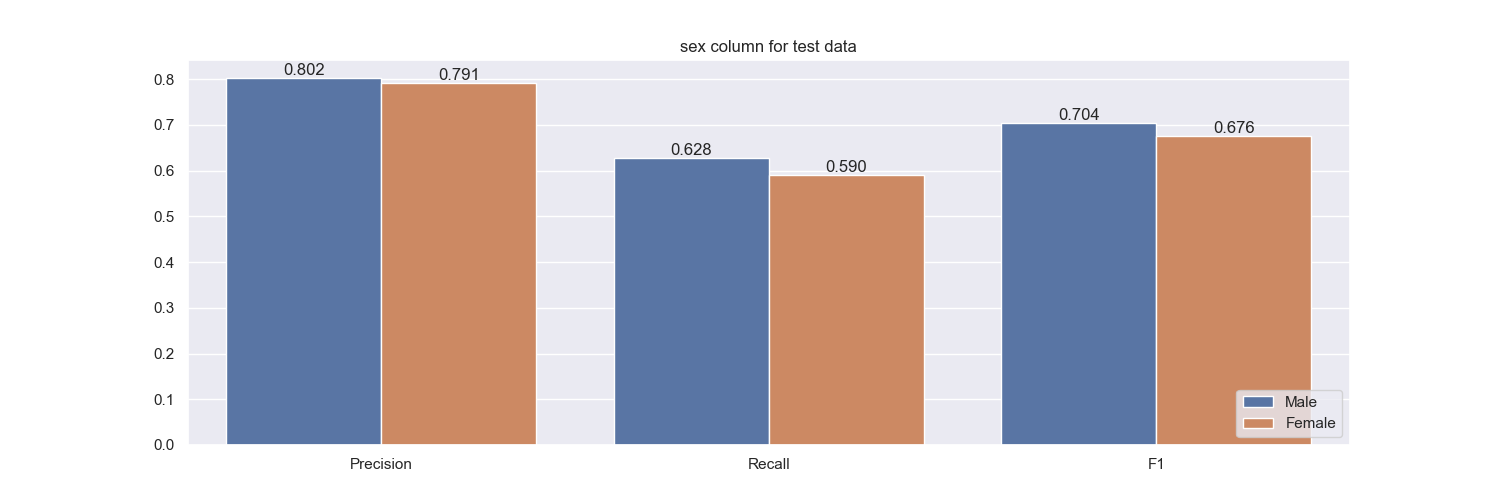
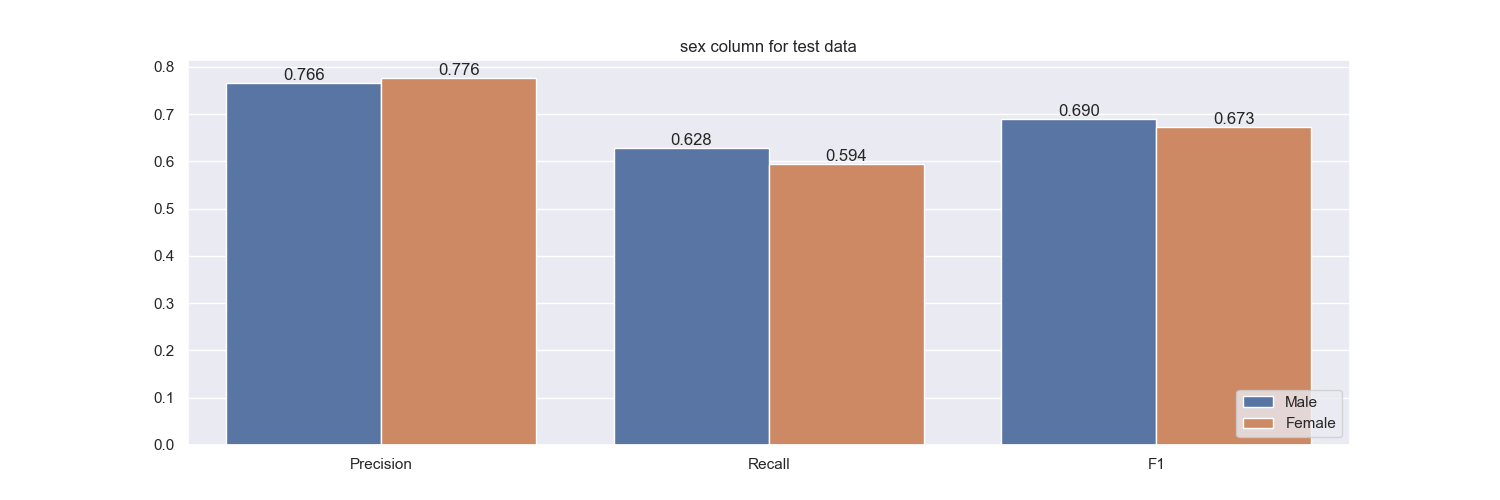
update

diff --git a/models/pipe_RandomForestClassifier.html b/models/pipe_RandomForestClassifier.html
@@ -1,4 +1,4 @@
-<style>#sk-1fee6def-3d5b-4289-ac9e-83a3c6e13935 {color: black;background-color: white;}#sk-1fee6def-3d5b-4289-ac9e-83a3c6e13935 pre{padding: 0;}#sk-1fee6def-3d5b-4289-ac9e-83a3c6e13935 div.sk-toggleable {background-color: white;}#sk-1fee6def-3d5b-4289-ac9e-83a3c6e13935 label.sk-toggleable__label {cursor: pointer;display: block;width: 100%;margin-bottom: 0;padding: 0.3em;box-sizing: border-box;text-align: center;}#sk-1fee6def-3d5b-4289-ac9e-83a3c6e13935 div.sk-toggleable__content {max-height: 0;max-width: 0;overflow: hidden;text-align: left;background-color: #f0f8ff;}#sk-1fee6def-3d5b-4289-ac9e-83a3c6e13935 div.sk-toggleable__content pre {margin: 0.2em;color: black;border-radius: 0.25em;background-color: #f0f8ff;}#sk-1fee6def-3d5b-4289-ac9e-83a3c6e13935 input.sk-toggleable__control:checked~div.sk-toggleable__content {max-height: 200px;max-width: 100%;overflow: auto;}#sk-1fee6def-3d5b-4289-ac9e-83a3c6e13935 div.sk-estimator input.sk-toggleable__control:checked~label.sk-toggleable__label {background-color: #d4ebff;}#sk-1fee6def-3d5b-4289-ac9e-83a3c6e13935 div.sk-label input.sk-toggleable__control:checked~label.sk-toggleable__label {background-color: #d4ebff;}#sk-1fee6def-3d5b-4289-ac9e-83a3c6e13935 input.sk-hidden--visually {border: 0;clip: rect(1px 1px 1px 1px);clip: rect(1px, 1px, 1px, 1px);height: 1px;margin: -1px;overflow: hidden;padding: 0;position: absolute;width: 1px;}#sk-1fee6def-3d5b-4289-ac9e-83a3c6e13935 div.sk-estimator {font-family: monospace;background-color: #f0f8ff;border: 1px dotted black;border-radius: 0.25em;box-sizing: border-box;margin-bottom: 0.5em;}#sk-1fee6def-3d5b-4289-ac9e-83a3c6e13935 div.sk-estimator:hover {background-color: #d4ebff;}#sk-1fee6def-3d5b-4289-ac9e-83a3c6e13935 div.sk-parallel-item::after {content: "";width: 100%;border-bottom: 1px solid gray;flex-grow: 1;}#sk-1fee6def-3d5b-4289-ac9e-83a3c6e13935 div.sk-label:hover label.sk-toggleable__label {background-color: #d4ebff;}#sk-1fee6def-3d5b-4289-ac9e-83a3c6e13935 div.sk-serial::before {content: "";position: absolute;border-left: 1px solid gray;box-sizing: border-box;top: 2em;bottom: 0;left: 50%;}#sk-1fee6def-3d5b-4289-ac9e-83a3c6e13935 div.sk-serial {display: flex;flex-direction: column;align-items: center;background-color: white;padding-right: 0.2em;padding-left: 0.2em;}#sk-1fee6def-3d5b-4289-ac9e-83a3c6e13935 div.sk-item {z-index: 1;}#sk-1fee6def-3d5b-4289-ac9e-83a3c6e13935 div.sk-parallel {display: flex;align-items: stretch;justify-content: center;background-color: white;}#sk-1fee6def-3d5b-4289-ac9e-83a3c6e13935 div.sk-parallel::before {content: "";position: absolute;border-left: 1px solid gray;box-sizing: border-box;top: 2em;bottom: 0;left: 50%;}#sk-1fee6def-3d5b-4289-ac9e-83a3c6e13935 div.sk-parallel-item {display: flex;flex-direction: column;position: relative;background-color: white;}#sk-1fee6def-3d5b-4289-ac9e-83a3c6e13935 div.sk-parallel-item:first-child::after {align-self: flex-end;width: 50%;}#sk-1fee6def-3d5b-4289-ac9e-83a3c6e13935 div.sk-parallel-item:last-child::after {align-self: flex-start;width: 50%;}#sk-1fee6def-3d5b-4289-ac9e-83a3c6e13935 div.sk-parallel-item:only-child::after {width: 0;}#sk-1fee6def-3d5b-4289-ac9e-83a3c6e13935 div.sk-dashed-wrapped {border: 1px dashed gray;margin: 0 0.4em 0.5em 0.4em;box-sizing: border-box;padding-bottom: 0.4em;background-color: white;position: relative;}#sk-1fee6def-3d5b-4289-ac9e-83a3c6e13935 div.sk-label label {font-family: monospace;font-weight: bold;background-color: white;display: inline-block;line-height: 1.2em;}#sk-1fee6def-3d5b-4289-ac9e-83a3c6e13935 div.sk-label-container {position: relative;z-index: 2;text-align: center;}#sk-1fee6def-3d5b-4289-ac9e-83a3c6e13935 div.sk-container {display: inline-block;position: relative;}</style><div id="sk-1fee6def-3d5b-4289-ac9e-83a3c6e13935" class"sk-top-container"><div class="sk-container"><div class="sk-item sk-dashed-wrapped"><div class="sk-label-container"><div class="sk-label sk-toggleable"><input class="sk-toggleable__control sk-hidden--visually" id="b9aa14d0-c104-4e8a-ac03-9729935c76d5" type="checkbox" ><label class="sk-toggleable__label" for="b9aa14d0-c104-4e8a-ac03-9729935c76d5">Pipeline</label><div class="sk-toggleable__content"><pre>Pipeline(steps=[('features_preprocessor',
+<style>#sk-76612ce1-7096-4c74-af0b-5bf7a553d9b0 {color: black;background-color: white;}#sk-76612ce1-7096-4c74-af0b-5bf7a553d9b0 pre{padding: 0;}#sk-76612ce1-7096-4c74-af0b-5bf7a553d9b0 div.sk-toggleable {background-color: white;}#sk-76612ce1-7096-4c74-af0b-5bf7a553d9b0 label.sk-toggleable__label {cursor: pointer;display: block;width: 100%;margin-bottom: 0;padding: 0.3em;box-sizing: border-box;text-align: center;}#sk-76612ce1-7096-4c74-af0b-5bf7a553d9b0 div.sk-toggleable__content {max-height: 0;max-width: 0;overflow: hidden;text-align: left;background-color: #f0f8ff;}#sk-76612ce1-7096-4c74-af0b-5bf7a553d9b0 div.sk-toggleable__content pre {margin: 0.2em;color: black;border-radius: 0.25em;background-color: #f0f8ff;}#sk-76612ce1-7096-4c74-af0b-5bf7a553d9b0 input.sk-toggleable__control:checked~div.sk-toggleable__content {max-height: 200px;max-width: 100%;overflow: auto;}#sk-76612ce1-7096-4c74-af0b-5bf7a553d9b0 div.sk-estimator input.sk-toggleable__control:checked~label.sk-toggleable__label {background-color: #d4ebff;}#sk-76612ce1-7096-4c74-af0b-5bf7a553d9b0 div.sk-label input.sk-toggleable__control:checked~label.sk-toggleable__label {background-color: #d4ebff;}#sk-76612ce1-7096-4c74-af0b-5bf7a553d9b0 input.sk-hidden--visually {border: 0;clip: rect(1px 1px 1px 1px);clip: rect(1px, 1px, 1px, 1px);height: 1px;margin: -1px;overflow: hidden;padding: 0;position: absolute;width: 1px;}#sk-76612ce1-7096-4c74-af0b-5bf7a553d9b0 div.sk-estimator {font-family: monospace;background-color: #f0f8ff;border: 1px dotted black;border-radius: 0.25em;box-sizing: border-box;margin-bottom: 0.5em;}#sk-76612ce1-7096-4c74-af0b-5bf7a553d9b0 div.sk-estimator:hover {background-color: #d4ebff;}#sk-76612ce1-7096-4c74-af0b-5bf7a553d9b0 div.sk-parallel-item::after {content: "";width: 100%;border-bottom: 1px solid gray;flex-grow: 1;}#sk-76612ce1-7096-4c74-af0b-5bf7a553d9b0 div.sk-label:hover label.sk-toggleable__label {background-color: #d4ebff;}#sk-76612ce1-7096-4c74-af0b-5bf7a553d9b0 div.sk-serial::before {content: "";position: absolute;border-left: 1px solid gray;box-sizing: border-box;top: 2em;bottom: 0;left: 50%;}#sk-76612ce1-7096-4c74-af0b-5bf7a553d9b0 div.sk-serial {display: flex;flex-direction: column;align-items: center;background-color: white;padding-right: 0.2em;padding-left: 0.2em;}#sk-76612ce1-7096-4c74-af0b-5bf7a553d9b0 div.sk-item {z-index: 1;}#sk-76612ce1-7096-4c74-af0b-5bf7a553d9b0 div.sk-parallel {display: flex;align-items: stretch;justify-content: center;background-color: white;}#sk-76612ce1-7096-4c74-af0b-5bf7a553d9b0 div.sk-parallel::before {content: "";position: absolute;border-left: 1px solid gray;box-sizing: border-box;top: 2em;bottom: 0;left: 50%;}#sk-76612ce1-7096-4c74-af0b-5bf7a553d9b0 div.sk-parallel-item {display: flex;flex-direction: column;position: relative;background-color: white;}#sk-76612ce1-7096-4c74-af0b-5bf7a553d9b0 div.sk-parallel-item:first-child::after {align-self: flex-end;width: 50%;}#sk-76612ce1-7096-4c74-af0b-5bf7a553d9b0 div.sk-parallel-item:last-child::after {align-self: flex-start;width: 50%;}#sk-76612ce1-7096-4c74-af0b-5bf7a553d9b0 div.sk-parallel-item:only-child::after {width: 0;}#sk-76612ce1-7096-4c74-af0b-5bf7a553d9b0 div.sk-dashed-wrapped {border: 1px dashed gray;margin: 0 0.4em 0.5em 0.4em;box-sizing: border-box;padding-bottom: 0.4em;background-color: white;position: relative;}#sk-76612ce1-7096-4c74-af0b-5bf7a553d9b0 div.sk-label label {font-family: monospace;font-weight: bold;background-color: white;display: inline-block;line-height: 1.2em;}#sk-76612ce1-7096-4c74-af0b-5bf7a553d9b0 div.sk-label-container {position: relative;z-index: 2;text-align: center;}#sk-76612ce1-7096-4c74-af0b-5bf7a553d9b0 div.sk-container {display: inline-block;position: relative;}</style><div id="sk-76612ce1-7096-4c74-af0b-5bf7a553d9b0" class"sk-top-container"><div class="sk-container"><div class="sk-item sk-dashed-wrapped"><div class="sk-label-container"><div class="sk-label sk-toggleable"><input class="sk-toggleable__control sk-hidden--visually" id="ca062c31-28ac-43e6-9db4-61a8ccfc0461" type="checkbox" ><label class="sk-toggleable__label" for="ca062c31-28ac-43e6-9db4-61a8ccfc0461">Pipeline</label><div class="sk-toggleable__content"><pre>Pipeline(steps=[('features_preprocessor',
                  ColumnTransformer(remainder='passthrough',
                                    transformers=[('drop', 'drop',
                                                   ['education']),
@@ -17,8 +17,8 @@
                                                    'capital_loss',
                                                    'hours_per_week'])])),
                 ('model',
-                 RandomForestClassifier(max_depth=20, n_estimators=20,
-                                        random_state=41))])</pre></div></div></div><div class="sk-serial"><div class="sk-item sk-dashed-wrapped"><div class="sk-label-container"><div class="sk-label sk-toggleable"><input class="sk-toggleable__control sk-hidden--visually" id="12787dd3-5f72-4d8d-b64f-42e6cc9c695a" type="checkbox" ><label class="sk-toggleable__label" for="12787dd3-5f72-4d8d-b64f-42e6cc9c695a">features_preprocessor: ColumnTransformer</label><div class="sk-toggleable__content"><pre>ColumnTransformer(remainder='passthrough',
+                 RandomForestClassifier(max_depth=32, n_estimators=40,
+                                        random_state=41))])</pre></div></div></div><div class="sk-serial"><div class="sk-item sk-dashed-wrapped"><div class="sk-label-container"><div class="sk-label sk-toggleable"><input class="sk-toggleable__control sk-hidden--visually" id="3304acf8-57a5-449a-a667-3433ef29677e" type="checkbox" ><label class="sk-toggleable__label" for="3304acf8-57a5-449a-a667-3433ef29677e">features_preprocessor: ColumnTransformer</label><div class="sk-toggleable__content"><pre>ColumnTransformer(remainder='passthrough',
                   transformers=[('drop', 'drop', ['education']),
                                 ('categorical',
                                  Pipeline(steps=[('simpleimputer',
@@ -30,4 +30,4 @@
                                   'native_country']),
                                 ('numeric', StandardScaler(),
                                  ['age', 'fnlgt', 'capital_gain',
-                                  'capital_loss', 'hours_per_week'])])</pre></div></div></div><div class="sk-parallel"><div class="sk-parallel-item"><div class="sk-item"><div class="sk-label-container"><div class="sk-label sk-toggleable"><input class="sk-toggleable__control sk-hidden--visually" id="3bea58fb-984b-4c59-8169-2b261b75cd22" type="checkbox" ><label class="sk-toggleable__label" for="3bea58fb-984b-4c59-8169-2b261b75cd22">drop</label><div class="sk-toggleable__content"><pre>['education']</pre></div></div></div><div class="sk-serial"><div class="sk-item"><div class="sk-estimator sk-toggleable"><input class="sk-toggleable__control sk-hidden--visually" id="b2a022b2-955b-483f-8f1b-8b8925eb2e19" type="checkbox" ><label class="sk-toggleable__label" for="b2a022b2-955b-483f-8f1b-8b8925eb2e19">drop</label><div class="sk-toggleable__content"><pre>drop</pre></div></div></div></div></div></div><div class="sk-parallel-item"><div class="sk-item"><div class="sk-label-container"><div class="sk-label sk-toggleable"><input class="sk-toggleable__control sk-hidden--visually" id="9f454bad-31c3-4972-b3d6-2ff96473bd91" type="checkbox" ><label class="sk-toggleable__label" for="9f454bad-31c3-4972-b3d6-2ff96473bd91">categorical</label><div class="sk-toggleable__content"><pre>['marital_status', 'occupation', 'relationship', 'race', 'sex', 'workclass', 'native_country']</pre></div></div></div><div class="sk-serial"><div class="sk-item"><div class="sk-serial"><div class="sk-item"><div class="sk-estimator sk-toggleable"><input class="sk-toggleable__control sk-hidden--visually" id="16b9cfa7-1df5-4abe-b43d-a9677d930d45" type="checkbox" ><label class="sk-toggleable__label" for="16b9cfa7-1df5-4abe-b43d-a9677d930d45">SimpleImputer</label><div class="sk-toggleable__content"><pre>SimpleImputer(strategy='most_frequent')</pre></div></div></div><div class="sk-item"><div class="sk-estimator sk-toggleable"><input class="sk-toggleable__control sk-hidden--visually" id="0799f685-445c-4217-8f3e-e72564c4047b" type="checkbox" ><label class="sk-toggleable__label" for="0799f685-445c-4217-8f3e-e72564c4047b">OneHotEncoder</label><div class="sk-toggleable__content"><pre>OneHotEncoder(handle_unknown='ignore')</pre></div></div></div></div></div></div></div></div><div class="sk-parallel-item"><div class="sk-item"><div class="sk-label-container"><div class="sk-label sk-toggleable"><input class="sk-toggleable__control sk-hidden--visually" id="fc3eba99-1b0d-456a-b8d9-c75fc0c826c7" type="checkbox" ><label class="sk-toggleable__label" for="fc3eba99-1b0d-456a-b8d9-c75fc0c826c7">numeric</label><div class="sk-toggleable__content"><pre>['age', 'fnlgt', 'capital_gain', 'capital_loss', 'hours_per_week']</pre></div></div></div><div class="sk-serial"><div class="sk-item"><div class="sk-estimator sk-toggleable"><input class="sk-toggleable__control sk-hidden--visually" id="ea9f50fc-c3bf-41a3-b9f4-eb3bae96e7f7" type="checkbox" ><label class="sk-toggleable__label" for="ea9f50fc-c3bf-41a3-b9f4-eb3bae96e7f7">StandardScaler</label><div class="sk-toggleable__content"><pre>StandardScaler()</pre></div></div></div></div></div></div><div class="sk-parallel-item"><div class="sk-item"><div class="sk-label-container"><div class="sk-label sk-toggleable"><input class="sk-toggleable__control sk-hidden--visually" id="e7f5c820-04c0-4063-a61b-cc25c5f5260b" type="checkbox" ><label class="sk-toggleable__label" for="e7f5c820-04c0-4063-a61b-cc25c5f5260b">remainder</label><div class="sk-toggleable__content"><pre>['education_num']</pre></div></div></div><div class="sk-serial"><div class="sk-item"><div class="sk-estimator sk-toggleable"><input class="sk-toggleable__control sk-hidden--visually" id="c12434a3-3291-4595-b5db-1ad558a673da" type="checkbox" ><label class="sk-toggleable__label" for="c12434a3-3291-4595-b5db-1ad558a673da">passthrough</label><div class="sk-toggleable__content"><pre>passthrough</pre></div></div></div></div></div></div></div></div><div class="sk-item"><div class="sk-estimator sk-toggleable"><input class="sk-toggleable__control sk-hidden--visually" id="b21fda20-062c-48cf-9226-b24f4dec89dc" type="checkbox" ><label class="sk-toggleable__label" for="b21fda20-062c-48cf-9226-b24f4dec89dc">RandomForestClassifier</label><div class="sk-toggleable__content"><pre>RandomForestClassifier(max_depth=20, n_estimators=20, random_state=41)</pre></div></div></div></div></div></div></div>
+                                  'capital_loss', 'hours_per_week'])])</pre></div></div></div><div class="sk-parallel"><div class="sk-parallel-item"><div class="sk-item"><div class="sk-label-container"><div class="sk-label sk-toggleable"><input class="sk-toggleable__control sk-hidden--visually" id="0b532c52-6db9-407a-901a-3c05609e2504" type="checkbox" ><label class="sk-toggleable__label" for="0b532c52-6db9-407a-901a-3c05609e2504">drop</label><div class="sk-toggleable__content"><pre>['education']</pre></div></div></div><div class="sk-serial"><div class="sk-item"><div class="sk-estimator sk-toggleable"><input class="sk-toggleable__control sk-hidden--visually" id="ab526128-cbb5-4147-958a-5c6704ddbaaa" type="checkbox" ><label class="sk-toggleable__label" for="ab526128-cbb5-4147-958a-5c6704ddbaaa">drop</label><div class="sk-toggleable__content"><pre>drop</pre></div></div></div></div></div></div><div class="sk-parallel-item"><div class="sk-item"><div class="sk-label-container"><div class="sk-label sk-toggleable"><input class="sk-toggleable__control sk-hidden--visually" id="bddbd74f-48cc-4962-b54f-544919deda8b" type="checkbox" ><label class="sk-toggleable__label" for="bddbd74f-48cc-4962-b54f-544919deda8b">categorical</label><div class="sk-toggleable__content"><pre>['marital_status', 'occupation', 'relationship', 'race', 'sex', 'workclass', 'native_country']</pre></div></div></div><div class="sk-serial"><div class="sk-item"><div class="sk-serial"><div class="sk-item"><div class="sk-estimator sk-toggleable"><input class="sk-toggleable__control sk-hidden--visually" id="eb755017-d953-4e00-8d73-6da5445bef21" type="checkbox" ><label class="sk-toggleable__label" for="eb755017-d953-4e00-8d73-6da5445bef21">SimpleImputer</label><div class="sk-toggleable__content"><pre>SimpleImputer(strategy='most_frequent')</pre></div></div></div><div class="sk-item"><div class="sk-estimator sk-toggleable"><input class="sk-toggleable__control sk-hidden--visually" id="9895381c-3e65-439b-b3ef-1b78ee86af66" type="checkbox" ><label class="sk-toggleable__label" for="9895381c-3e65-439b-b3ef-1b78ee86af66">OneHotEncoder</label><div class="sk-toggleable__content"><pre>OneHotEncoder(handle_unknown='ignore')</pre></div></div></div></div></div></div></div></div><div class="sk-parallel-item"><div class="sk-item"><div class="sk-label-container"><div class="sk-label sk-toggleable"><input class="sk-toggleable__control sk-hidden--visually" id="c6adfff4-58b9-46e6-8e35-c3af6a75536f" type="checkbox" ><label class="sk-toggleable__label" for="c6adfff4-58b9-46e6-8e35-c3af6a75536f">numeric</label><div class="sk-toggleable__content"><pre>['age', 'fnlgt', 'capital_gain', 'capital_loss', 'hours_per_week']</pre></div></div></div><div class="sk-serial"><div class="sk-item"><div class="sk-estimator sk-toggleable"><input class="sk-toggleable__control sk-hidden--visually" id="010080a3-4e3b-473e-9a55-112735b844b4" type="checkbox" ><label class="sk-toggleable__label" for="010080a3-4e3b-473e-9a55-112735b844b4">StandardScaler</label><div class="sk-toggleable__content"><pre>StandardScaler()</pre></div></div></div></div></div></div><div class="sk-parallel-item"><div class="sk-item"><div class="sk-label-container"><div class="sk-label sk-toggleable"><input class="sk-toggleable__control sk-hidden--visually" id="3e71e154-98b9-440d-9762-9b845d1790a7" type="checkbox" ><label class="sk-toggleable__label" for="3e71e154-98b9-440d-9762-9b845d1790a7">remainder</label><div class="sk-toggleable__content"><pre>['education_num']</pre></div></div></div><div class="sk-serial"><div class="sk-item"><div class="sk-estimator sk-toggleable"><input class="sk-toggleable__control sk-hidden--visually" id="dd9eab8b-c855-4002-b09a-52fbdd4a148c" type="checkbox" ><label class="sk-toggleable__label" for="dd9eab8b-c855-4002-b09a-52fbdd4a148c">passthrough</label><div class="sk-toggleable__content"><pre>passthrough</pre></div></div></div></div></div></div></div></div><div class="sk-item"><div class="sk-estimator sk-toggleable"><input class="sk-toggleable__control sk-hidden--visually" id="53172304-d205-4d9a-bf8b-30282b2f6896" type="checkbox" ><label class="sk-toggleable__label" for="53172304-d205-4d9a-bf8b-30282b2f6896">RandomForestClassifier</label><div class="sk-toggleable__content"><pre>RandomForestClassifier(max_depth=32, n_estimators=40, random_state=41)</pre></div></div></div></div></div></div></div>

diff --git a/src/config.py b/src/config.py
@@ -26,8 +26,8 @@ if isinstance(MODEL, RandomForestClassifier):
     # To tell the GridSearchCV which part of pipeline the parameters are used in,
     # we need '{name of part of pipeline}__' before parameter name.
     PARAM_GRID = {
-        'model__n_estimators': [20],
-        'model__max_depth': [20]
+        'model__n_estimators': [10, 20, 40],
+        'model__max_depth': [8, 16, 32]
         # 'model__n_estimators': list(range(50, 151, 25)),
         # 'model__max_depth': list(range(2, 11, 2)),
         # 'model__min_samples_leaf': list(range(1, 51, 5)),
